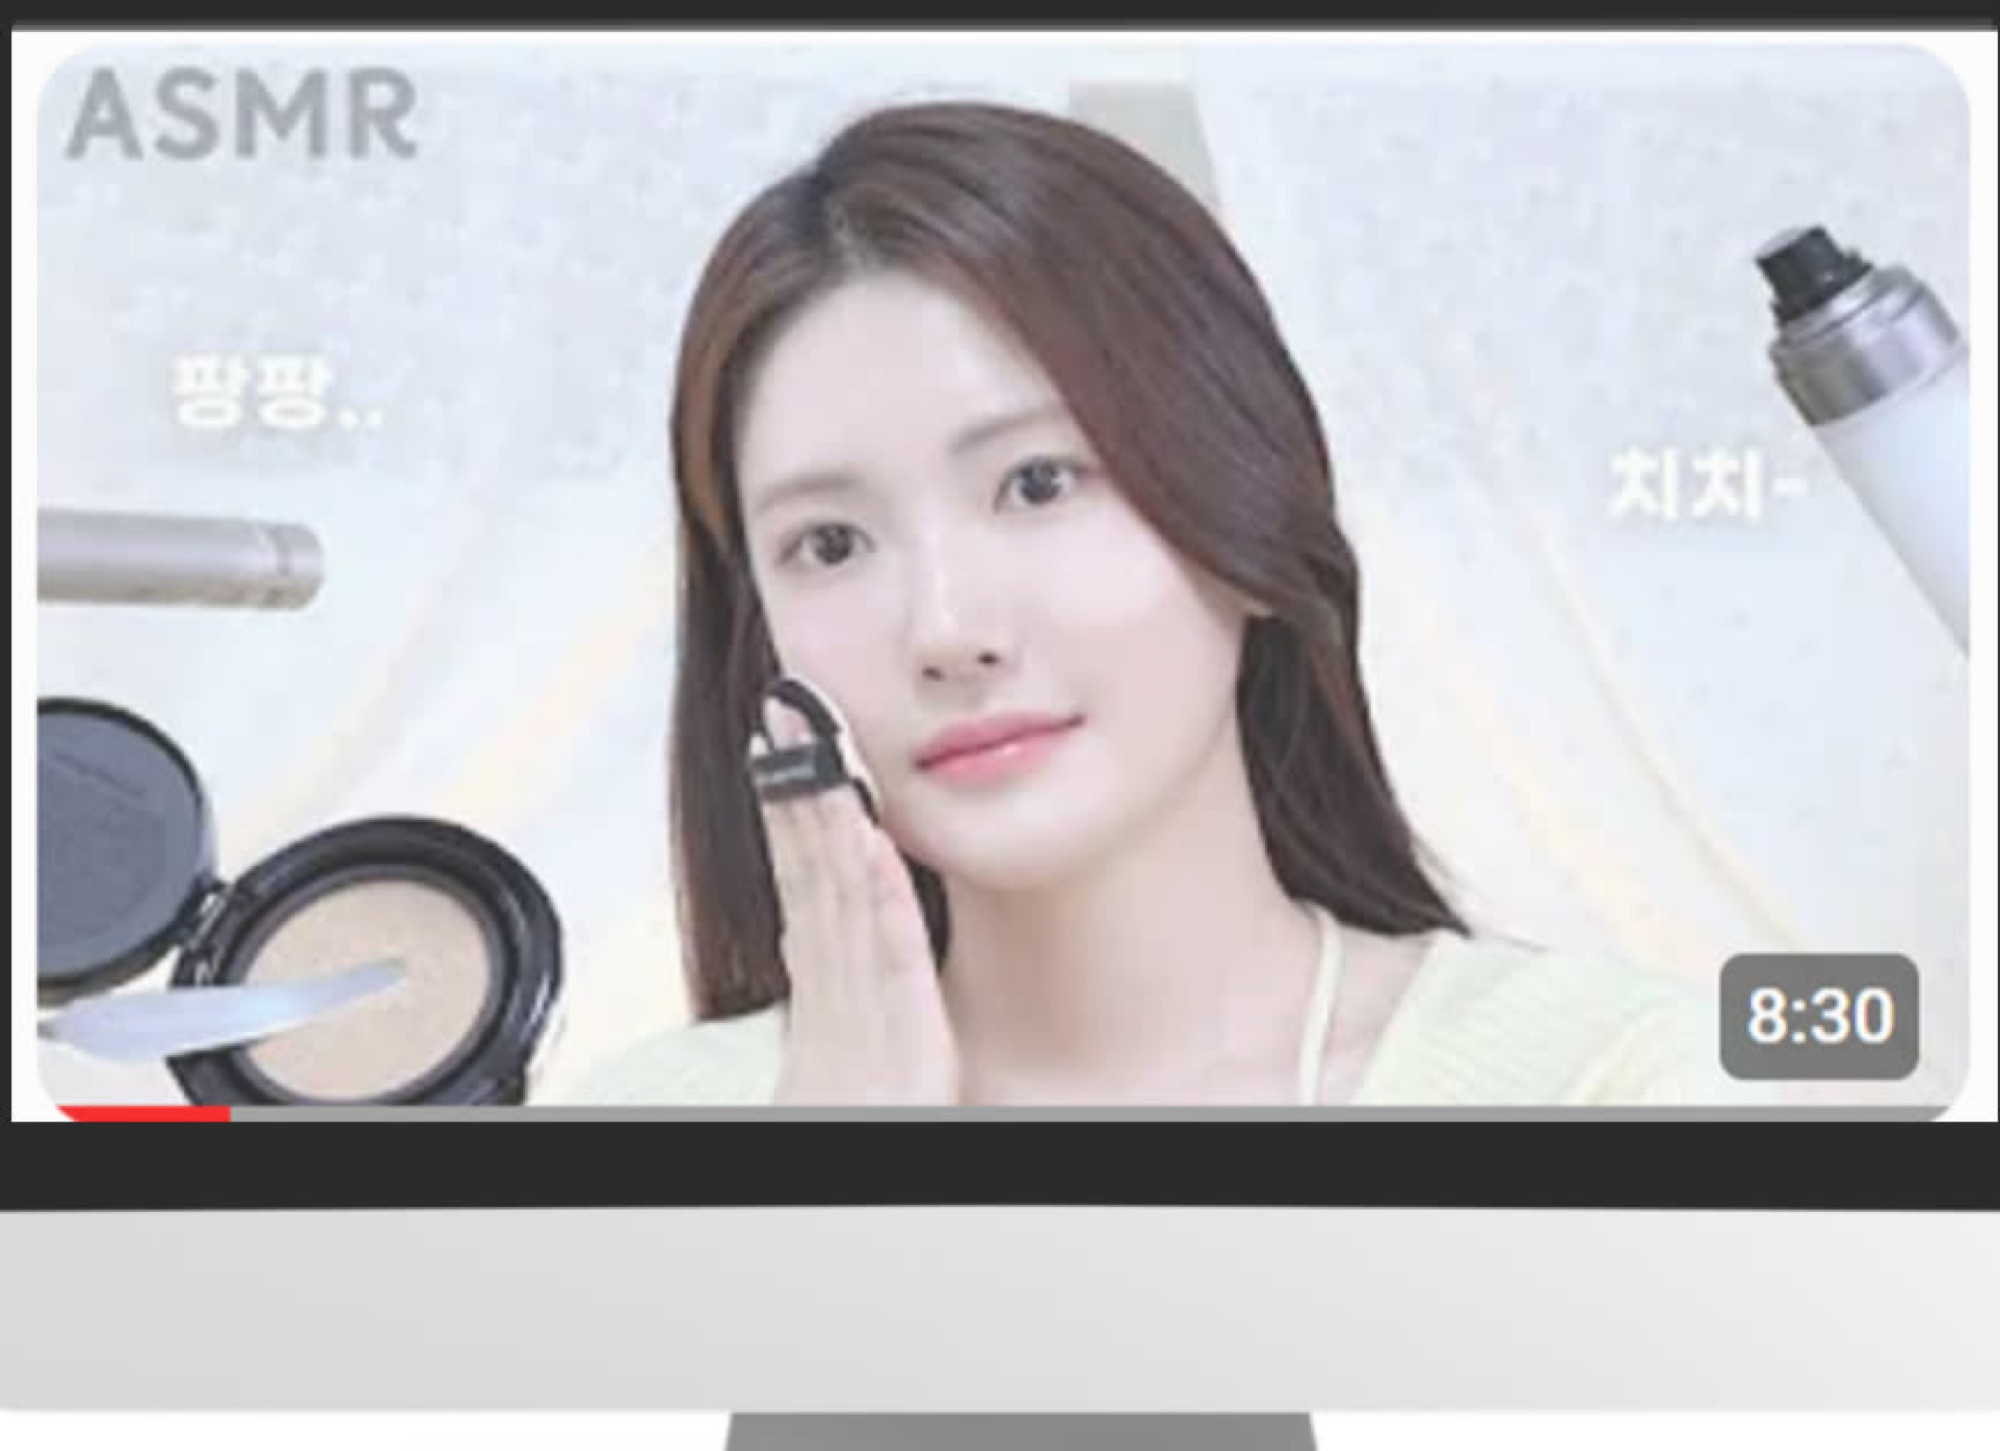
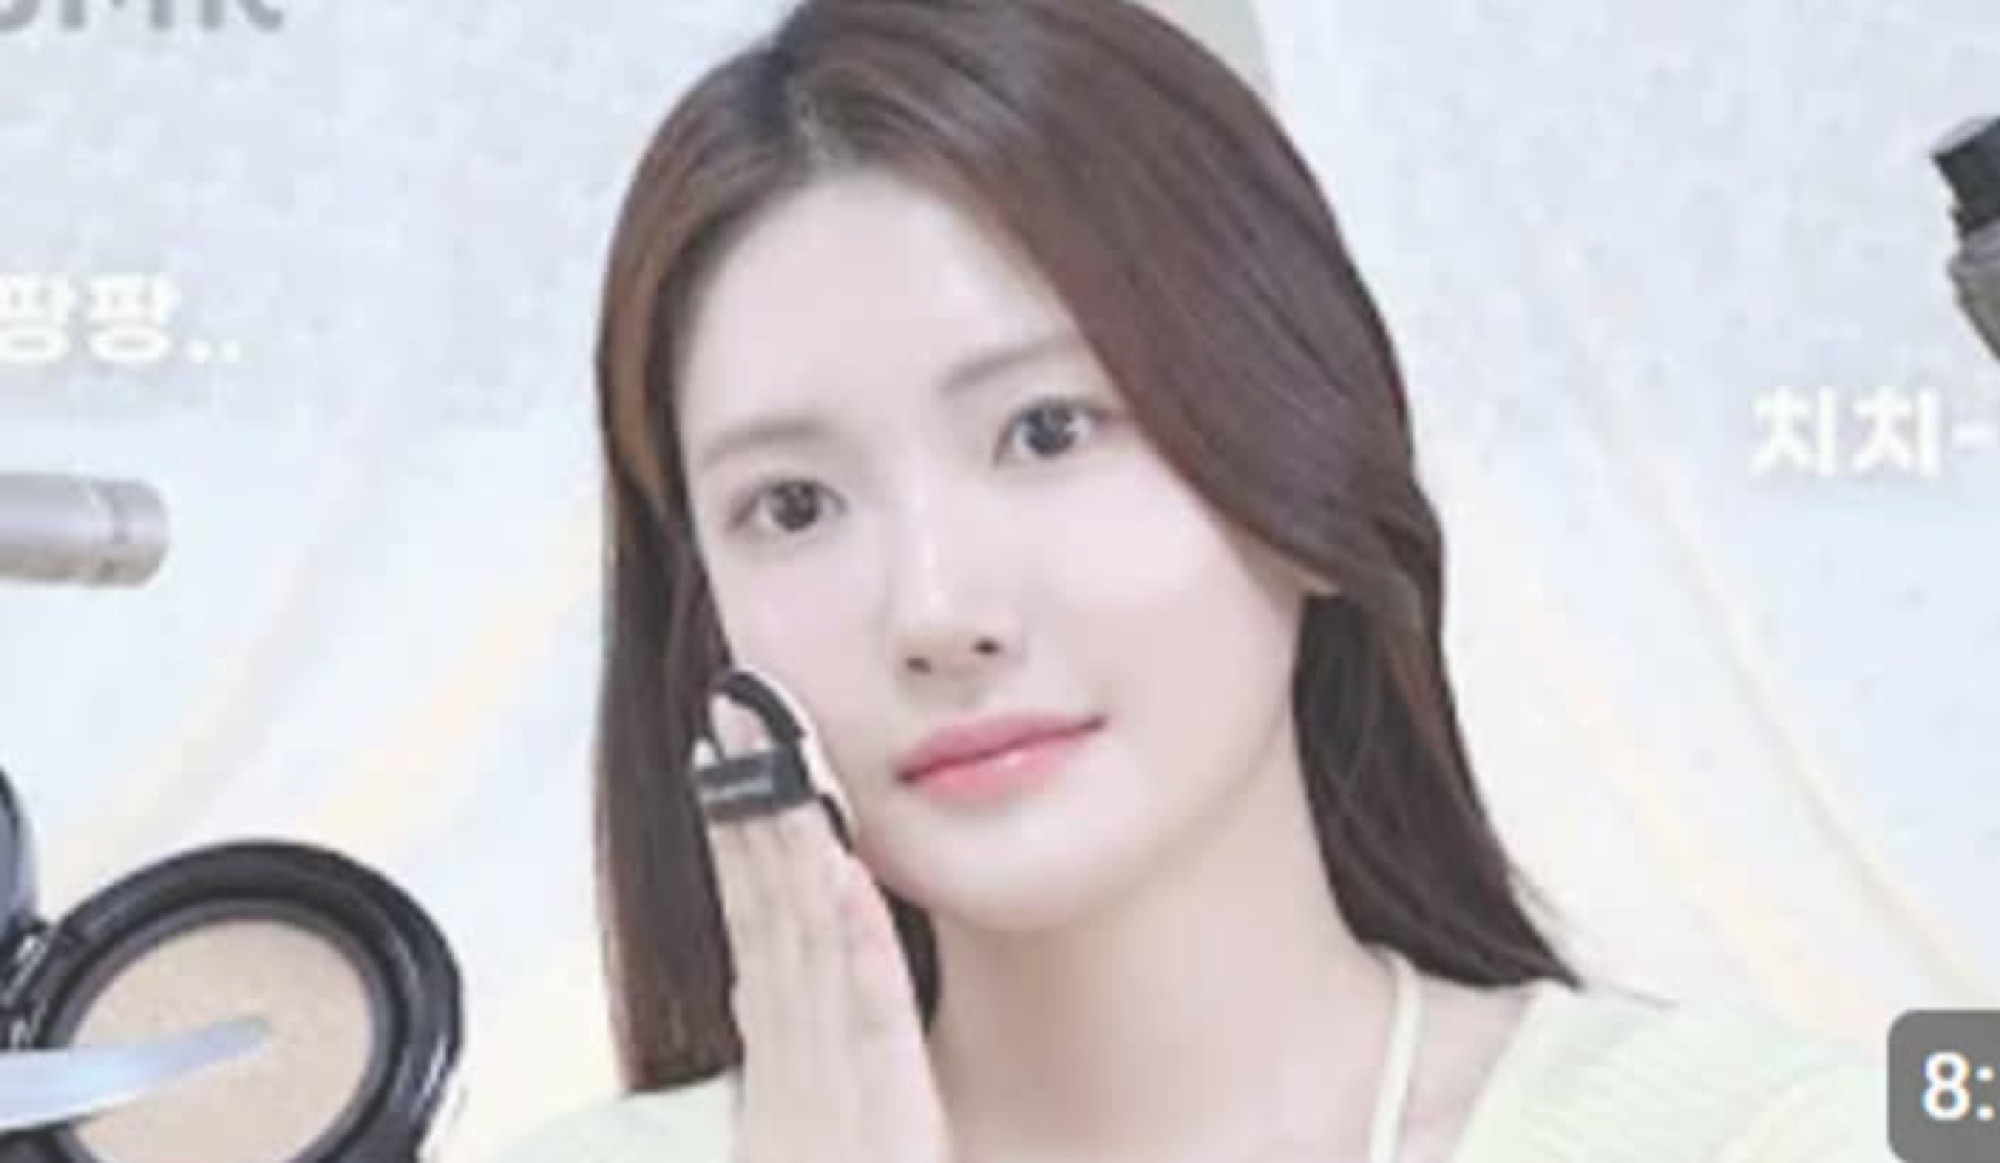
Fix Project card thumbnail sizing bug and tighten viral-marketing crop
Root cause of the "PORTRÉ thumbnails are a different size" report: the
card wrapper used aspectRatio:'4/5' CSS, but in practice the browser let
each source image's own intrinsic ratio determine the wrapper's height
instead (e.g. a 2:3 source rendered the card at 260x390 instead of
260x325), so every card's visual size tracked its own photo's aspect
ratio rather than a shared uniform box. Replaced aspectRatio with an
explicit height:'325px' (deterministic, no dependency on image intrinsic
size) — verified all 12 cards across both companies now measure exactly
260x325.

Also re-cropped the JUNGSAEMMOOL 바이럴 마케팅 thumbnail tighter — the
previous crop still showed a sliver of the source mockup's bezel/seek-bar
at the bottom, more noticeable now that the box shrank to the correct
height. Face is now centered and fills the frame.

diff --git a/index.html b/index.html
@@ -1696,7 +1696,7 @@ class Component extends DCLogic {
       tabRowStyle: { display: 'flex', gap: '28px' },
       scrollRowStyle: { display: 'flex', gap: '24px', overflowX: 'auto', paddingBottom: '12px' },
       cardStyle: { flex: '0 0 260px', display: 'flex', flexDirection: 'column', gap: '14px', cursor: 'pointer' },
-      cardImgStyle: { width: '260px', aspectRatio: '4/5', backgroundColor: 'oklch(93% 0.006 60)' },
+      cardImgStyle: { width: '260px', height: '325px', overflow: 'hidden', backgroundColor: 'oklch(93% 0.006 60)' },
       cardCaptionStyle: { display: 'flex', flexDirection: 'column', gap: '3px' },
       cardNumStyle: { fontFamily: sans, fontSize: '11px', color: faintInk, letterSpacing: '0.08em' },
       cardTitleStyle: { fontFamily: serif, fontSize: '18px', color: ink, lineHeight: 1.35, whiteSpace: 'pre-line' },
